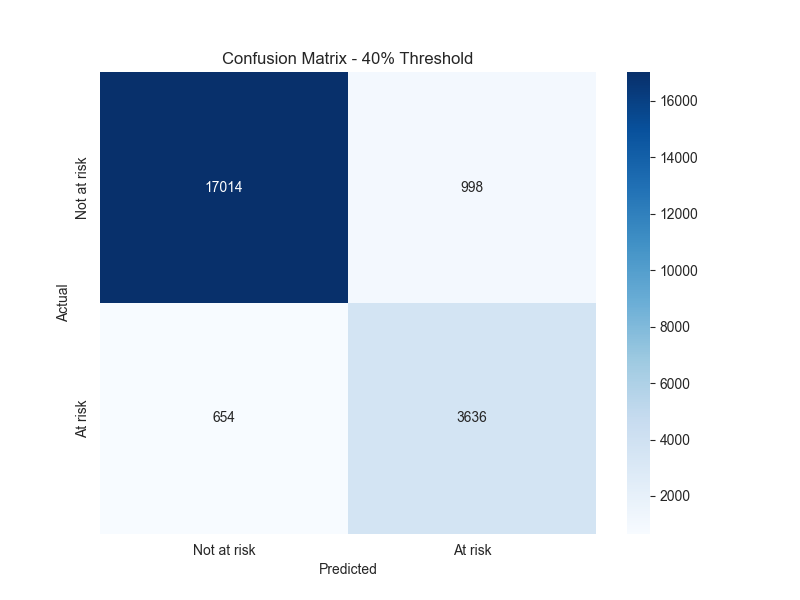
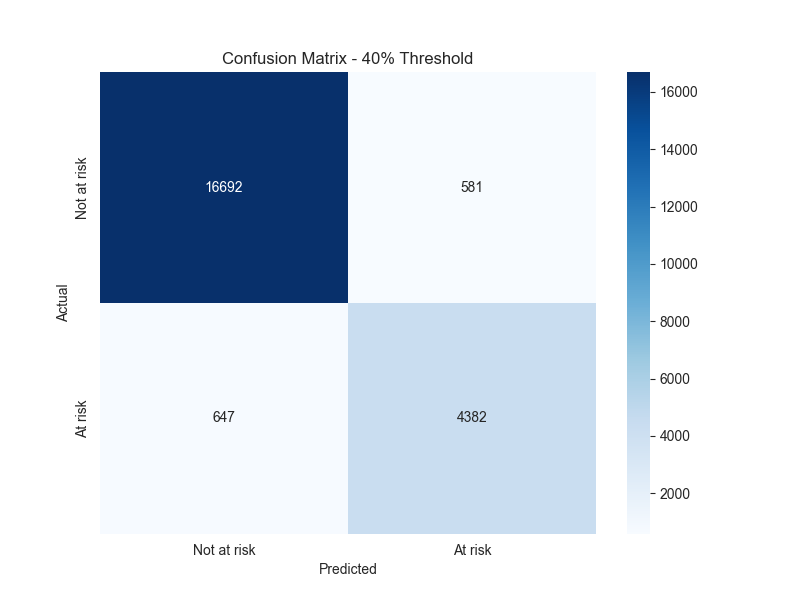
feat: update to 124 percent per cali

diff --git a/model/pipeline/data_processing.py b/model/pipeline/data_processing.py
@@ -50,7 +50,7 @@ def create_at_risk_column(df: pd.DataFrame) -> pd.DataFrame:
     """Create 'at_risk' column based on specified conditions."""
     try:
         df["at_risk"] = (
-            (df["PERPOVLVL"] <= 100) |  # Poverty level <= 100%
+            (df["PERPOVLVL"] <= 124) |  # Poverty level <= 124% per CA
             (df["HIHALF"] == 1) |       # High housing cost burden
             (df["HIMORTFORC"] == 1) |   # Mortgage foreclosure
             (df["HIEVICNOTE"] == 1) |   # Eviction notice
